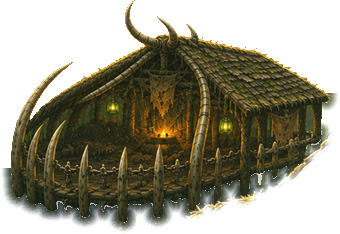
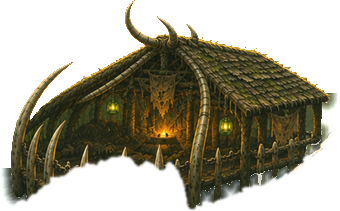
Mireclaw buildings stay behind the foreground tree
Owner, 2026-11-10: the den "need to be recut so it stay behind the
foreground tree".

The great tree at the right edge is painted into the backdrop in front of
the town, and building layers draw over the backdrop, so the den's roof and
fence lay over the tree's root.

- dusk_fen_foreground.py beside the packet marks the tree in the backdrop
  master (trunk, roots and the thick of its branches): GrabCut from a
  hand-drawn core and a band around it, 11% of the picture.
- The packet's backdrop.foreground names that mask. When it is present,
  package_town_plot_layers.py cuts every layer and hit mask away under it;
  icons keep the whole building.
- Changed layers: both den stages (the tree covered 18% and 20% of them),
  and by 1-2% the Votive Waxworks, the ferry yard and the Provisioners'
  Lodge. The other 47 layers are byte-identical.

Validation: the fully built town screen in the game: the root crosses in
front of the den; core suite 18/18.

diff --git a/tools/package_town_plot_layers.py b/tools/package_town_plot_layers.py
@@ -247,6 +247,17 @@ def main():
             raise ValueError('Changed painted-on master: ' + str(painted_path))
         painted_image = Image.open(painted_path).convert('RGB')
     master = np.asarray(painted_image).astype(np.float32)
+    # What the backdrop paints in front of the buildings (a foreground tree): white in this mask
+    # is cut out of every layer and hit mask, so it stays in front. Icons keep the whole building.
+    foreground = None
+    if backdrop.get('foreground'):
+        foreground_path = ROOT / backdrop['foreground']['path']
+        if digest(foreground_path) != backdrop['foreground']['sha256']:
+            raise ValueError('Changed foreground mask: ' + str(foreground_path))
+        with Image.open(foreground_path) as foreground_image:
+            if foreground_image.size != (width, height):
+                raise ValueError('The foreground mask does not fit the master: ' + str(foreground_path))
+            foreground = np.asarray(foreground_image.convert('L')).astype(np.float32) / 255.0
     scene, layout = read(SCENE), read(LAYOUT)
     generation = packet['generation']
 
@@ -268,10 +279,14 @@ def main():
         with Image.open(matte_path) as matte_image:
             matte = np.asarray(matte_image.convert('L')).astype(np.float32) / 255.0
         (cx0, cy0), edit, alpha, building, solid = cut(master, full_edit(painted_image, item), item, matte, settings)
-        ys, xs = np.nonzero(alpha > 0.004)
+        shown, clickable = alpha, building
+        if foreground is not None:
+            behind = 1.0 - foreground[cy0:cy0 + alpha.shape[0], cx0:cx0 + alpha.shape[1]]
+            shown, clickable = alpha * behind, building * behind
+        ys, xs = np.nonzero(shown > 0.004)
         ly0, ly1, lx0, lx1 = ys.min(), ys.max() + 1, xs.min(), xs.max() + 1
-        layer = Image.fromarray(np.dstack([edit, alpha * 255.0])[ly0:ly1, lx0:lx1].round().astype(np.uint8), 'RGBA')
-        hit = Image.fromarray((building * 255.0)[ly0:ly1, lx0:lx1].round().astype(np.uint8), 'L')
+        layer = Image.fromarray(np.dstack([edit, shown * 255.0])[ly0:ly1, lx0:lx1].round().astype(np.uint8), 'RGBA')
+        hit = Image.fromarray((clickable * 255.0)[ly0:ly1, lx0:lx1].round().astype(np.uint8), 'L')
         layer_path = ROOT / f'art/towns/runtime/scene_layers/overhaul/{faction}/{bid}.png'
         hit_path = layer_path.with_name(bid + '_hit.png')
         icon_path = ROOT / f'art/towns/runtime/buildings/overhaul/{faction}/{bid}.png'

diff --git a/docs/common-town-building-template.md b/docs/common-town-building-template.md
@@ -277,4 +277,4 @@ The 2026-09 Veilmourn items in `production.json` are inactive.
 
 Embercourt was repainted the same way on 2026-11-10 (owner's choice: concept C, the lock gorge), the first town planned with its Shipyard from the start. Its 24 plots were drawn on a plan sketch first. The first plan looked straight up a river with every block the same size, and the owner rejected its concepts as flat, like the first Brasshollow drafts. The second plan is seen from high on the right wall of a deep gorge: the river winds in from the sunset, drops through a staircase of four locks on a rock step and opens into a harbour basin; far plots are small and near ones large. The army panel covers only basin water, and the Shipyard has its own plot on the basin's near shore. The village backdrop is the concept with the town painted out; that edit moved some ledges, so the plots were fitted to the emptied gorge, not to the concept. The Fort line is a river barrage in the far distance, the tier-6 drakes have a sluice pen in the basin (`matte_passes`, as the Veilmourn sea pens) and the tier-7 colossus has a tall plot on the right slope. The packet is `art/towns/source/generated/overhaul/faction_embercourt/lock_gorge.json`. The stage glows sit on the sunset on the far river and the locks' fire baskets. Its `stage_effects` are water that sways and glints on the basin and the river above the locks, the four lock falls streaming down, the fire baskets on the lock piers flickering (`beacons`: the backdrop's lamp flicker alone, where the mask's blue puts it) and fire light in the buildings at 0.6 (`windows`). At full strength the windows' fire test also caught lantern-lit awnings and the colossus' bronze in this sunset palette. `lock_gorge_fx_mask.py` beside the packet rebuilds the mask: hand-drawn zones, GrabCut for the basin's shores, the river picked by its light, the falls by their white paint and the fires by their flames. Measured beside the other two towns, those effects moved only in spots, so the gorge also has `mist`: pale gold haze bands that drift through the far gorge and across the locks, and spray around each fall, where the mask's alpha puts them. The layout's `stage_mist` gives the drifting fog its colour, wind and cover for this painting; without it a town gets the bell fjord's blue-grey fog. A first pass in the hills' own colour at 0.6 thickness could not be seen.
 
-Mireclaw was repainted the same way on 2026-11-10 (owner's choice: concept D, the dusk fen). The first plan was a drowned gorge with a channel winding into the distance and the tier-7 antlered beast in a flooded pen; the owner rejected it: Mireclaw should feel more swampy and less like a river, and the elk should not be in the water. The accepted plan has no river: still pools, reed beds, mud and mossy hummocks under giant cypresses, an open mere at the lower left under the army panel, the drum hall on a root mound, and the beast on a dry mossy island. The Shipyard is a chain-ferry yard on the mere's near bank, right of the army panel. The great tree at the right edge is in the foreground, so no plot stands over it. The packet is `art/towns/source/generated/overhaul/faction_mireclaw/dusk_fen.json`. The stage glows sit on the horizon glow, its glints on the far pools and the drum hall's fire. Its `stage_effects` are water that sways and glints on the mere and the far pools, mist bands drifting across the whole swamp (`stage_mist`: a pale olive, a slow wind to the left; thickest far off, none on the sky or the foreground tree), a few wisps over the water and fire light in the buildings at 0.8. `dusk_fen_fx_mask.py` beside the packet rebuilds the mask. The first backdrop drew the swamp floor as thousands of thin upright reed strokes with upright reflections; the owner found it very streaky, with vertical lines all over (its vertical edges outweighed its horizontal ones, 1.12 against 0.73 to 0.83 in the other towns). The floor was repainted in one edit that keeps the layout (`dusk_fen_v2.png`, ratio 0.75): moss cushions, matted grass, mud, lily pads and calm water, with reeds only as a few tufts. The buildings were not repainted: the packet's `backdrop.painted_on` names the master they were painted on, both tools cut them against that one, and the game draws them over the new one.
+Mireclaw was repainted the same way on 2026-11-10 (owner's choice: concept D, the dusk fen). The first plan was a drowned gorge with a channel winding into the distance and the tier-7 antlered beast in a flooded pen; the owner rejected it: Mireclaw should feel more swampy and less like a river, and the elk should not be in the water. The accepted plan has no river: still pools, reed beds, mud and mossy hummocks under giant cypresses, an open mere at the lower left under the army panel, the drum hall on a root mound, and the beast on a dry mossy island. The Shipyard is a chain-ferry yard on the mere's near bank, right of the army panel. The great tree at the right edge is in the foreground, so no plot stands over it. The packet is `art/towns/source/generated/overhaul/faction_mireclaw/dusk_fen.json`. The stage glows sit on the horizon glow, its glints on the far pools and the drum hall's fire. Its `stage_effects` are water that sways and glints on the mere and the far pools, mist bands drifting across the whole swamp (`stage_mist`: a pale olive, a slow wind to the left; thickest far off, none on the sky or the foreground tree), a few wisps over the water and fire light in the buildings at 0.8. `dusk_fen_fx_mask.py` beside the packet rebuilds the mask. The first backdrop drew the swamp floor as thousands of thin upright reed strokes with upright reflections; the owner found it very streaky, with vertical lines all over (its vertical edges outweighed its horizontal ones, 1.12 against 0.73 to 0.83 in the other towns). The floor was repainted in one edit that keeps the layout (`dusk_fen_v2.png`, ratio 0.75): moss cushions, matted grass, mud, lily pads and calm water, with reeds only as a few tufts. The buildings were not repainted: the packet's `backdrop.painted_on` names the master they were painted on, both tools cut them against that one, and the game draws them over the new one. The great tree at the right edge is painted into the backdrop in front of the town, and the den's layer lay over its root. The packet's `backdrop.foreground` is a mask of that tree (`dusk_fen_foreground.py`, GrabCut from hand-drawn seeds); the packaging tool cuts every layer and hit mask away under it, so the tree stays in front. Icons keep the whole building.

diff --git a/PLAN.md b/PLAN.md
@@ -52,6 +52,7 @@ None open.
 
 ## Open work
 
+- `town-art-mireclaw-foreground-20261110` (in progress): The den's layer drew over the root of the great tree painted in the backdrop's foreground. A foreground mask of the tree in the packet (backdrop.foreground, dusk_fen_foreground.py); package_town_plot_layers.py cuts every layer and hit mask under it. Owner, 2026-11-10: recut it so it stays behind the foreground tree. See `docs/common-town-building-template.md`.
 - `native-rules-phase7-14-campaign-20261023` (pending): port the campaign runtime to C++, together with the campaign rework (D-f). See `docs/native-rules-engine-transition.md`.
 - `content-authored-scenarios-obsolete-20261005` (paused): hold on all authored maps, scenarios and campaigns until the owner selects their rework. See `docs/authored-scenarios-obsolete.md`.
 - `playable-alpha-scenario-set-10184` (paused): Phase 5 umbrella: several scenarios and skirmish setups played end to end, with save/load, outcomes, AI pressure and a viable economy. Waits for the authored-content rework.
